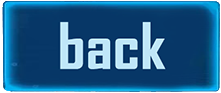
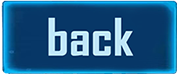
游戏界面优化

diff --git a/src/PlaneShooter/Plane/Weapon/Cannon.java b/src/PlaneShooter/Plane/Weapon/Cannon.java
@@ -43,25 +43,25 @@ public class Cannon extends PlanePart implements IWeapon {
     @Override
     public String getName() {
         return "Cannon";
-    }
+    }//planePart
 
     @Override
     public int getPower() {
         return 1;
-    }
+    }//ICollidable
 
     @Override
     public void onCollide(ICollidable object, Combat combat) {
         super.onCollide(object, combat);
-    }
+    }//ICollidable
 
     @Override
     public int getSize() {
         return 5;
-    }
+    }//ICollidable
 
     @Override
-    public Polygon getContour() {
+    public Polygon getContour() {//ICollidable
         Polygon contour=new Polygon();
         double XAddx,XAddy,YAddx,YAddy;
         XAddx = 0;
@@ -79,15 +79,15 @@ public class Cannon extends PlanePart implements IWeapon {
     @Override
     public CollideType getCollideType() {
         return CollideType.PLANEPART;
-    }
+    }//ICollidable
 
     @Override
     public PlaneStat calculateStats(PlaneStat planeStat) {
         return planeStat;
-    }
+    }//PlanePart
 
     @Override
     public int getPrice() {
         return 400;
-    }
+    }//PlanePart
 }

diff --git a/src/PlaneShooter/GUI/GamePanel.java b/src/PlaneShooter/GUI/GamePanel.java
@@ -65,7 +65,7 @@ public class GamePanel extends JPanel{
         labelStat.setLocation(0,500);
         add(labelStat);
         //JLabel lbl_Start=new JLabel("start");
-        JLabel lbl_Start=new JLabel(new ImageIcon("res/start.png"));
+        JLabel lbl_Start=new JLabel(new ImageIcon("res/start02.png"));
         lbl_Start.addMouseListener(new MouseListener() {
             @Override
             public void mouseClicked(MouseEvent e) {
@@ -109,7 +109,7 @@ public class GamePanel extends JPanel{
             }
         });
         lbl_Start.setSize(lbl_Start.getPreferredSize());
-        lbl_Start.setLocation(0,400);
+        lbl_Start.setLocation(0,200);
         add(lbl_Start);
 
         JLabel lbl_Back=new JLabel(new ImageIcon("res/back02.png"));
